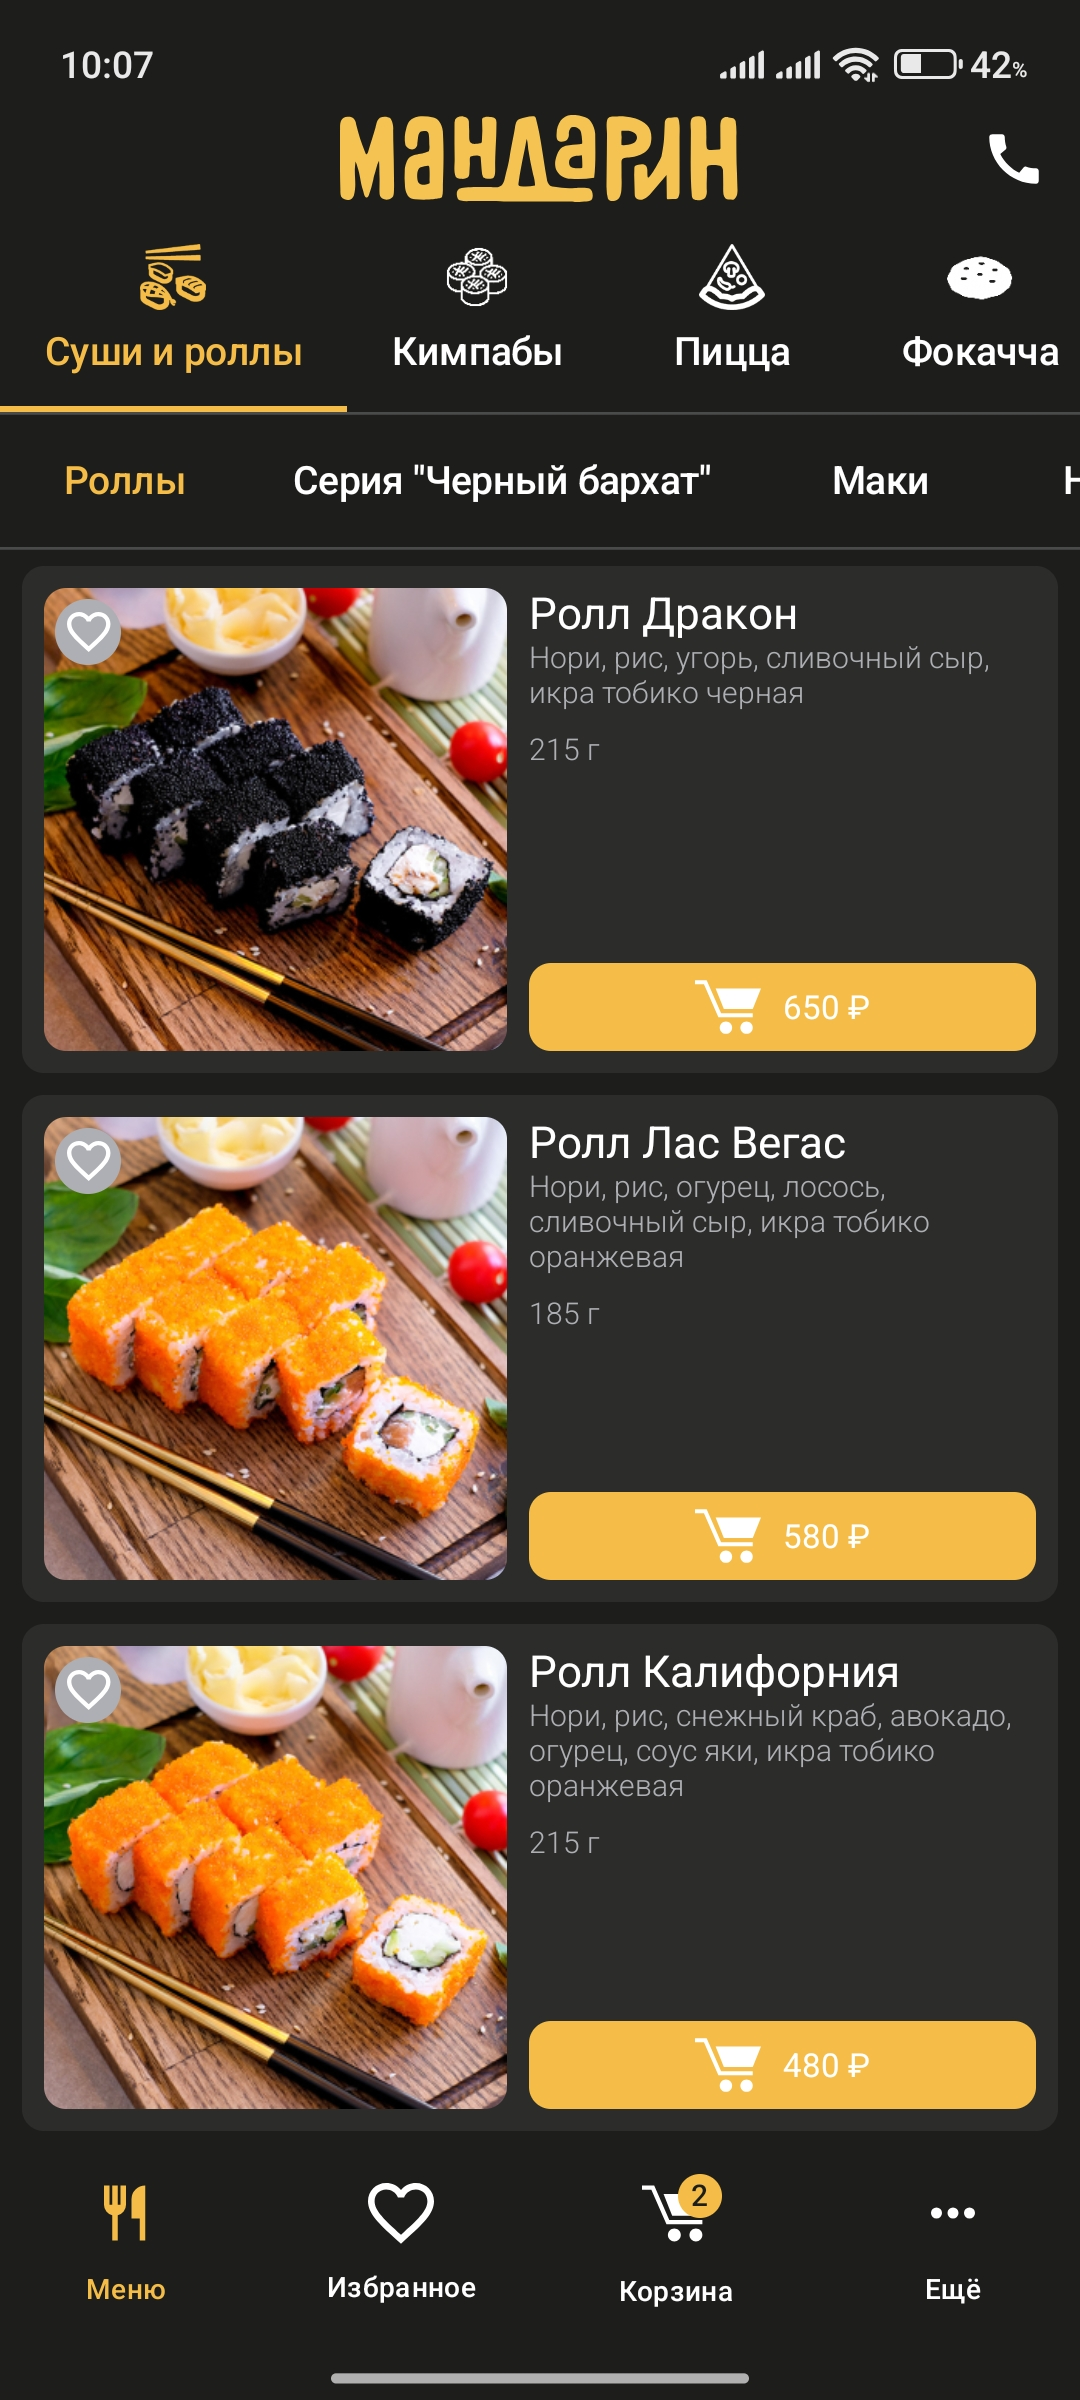
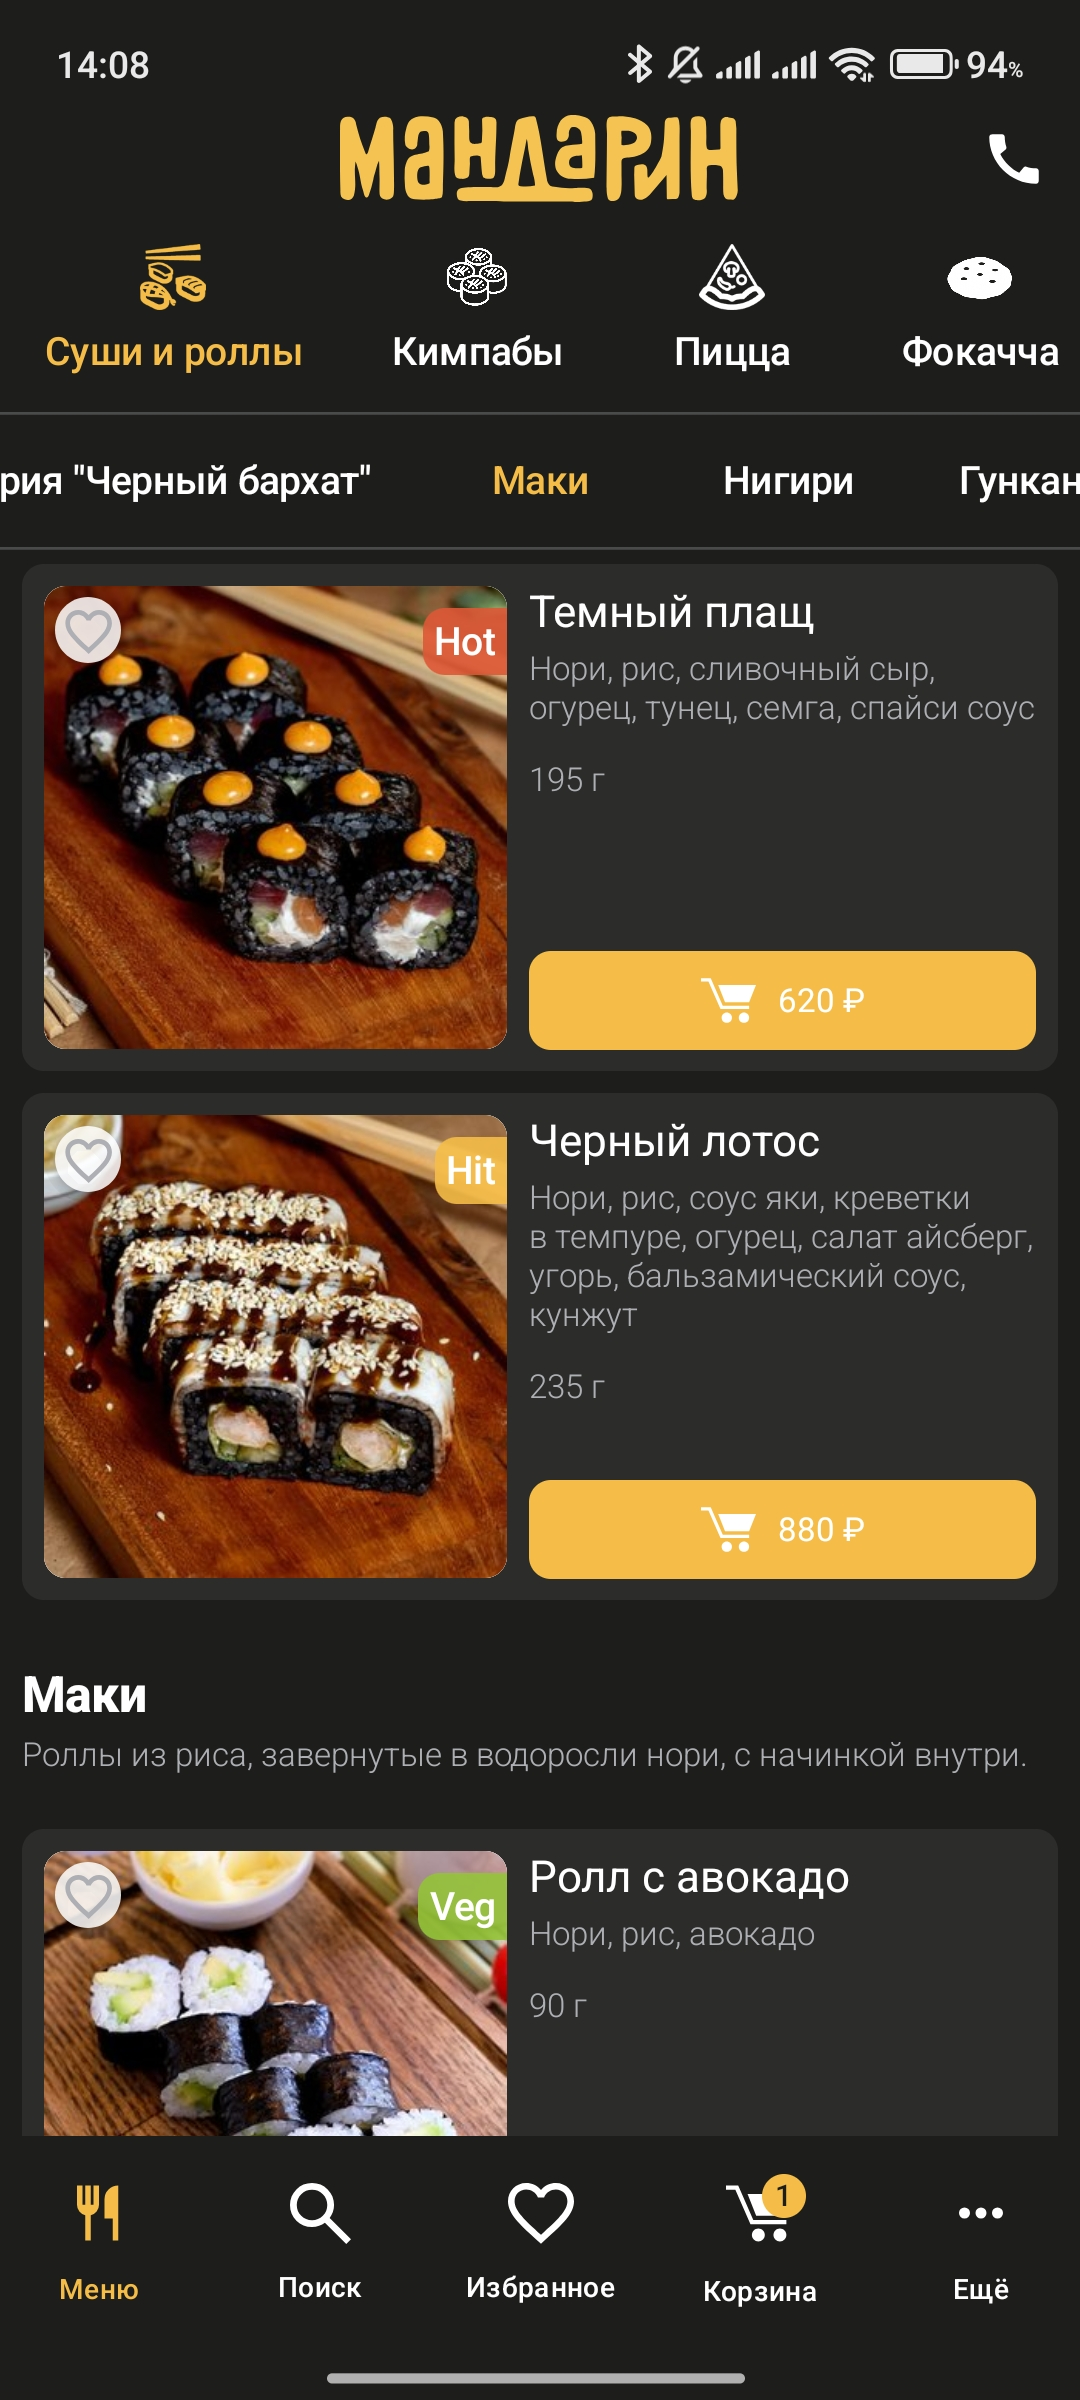
Небольшие косметические правки

diff --git a/composeApp/src/commonMain/kotlin/com/mandarinkafe/mandarin/features/more/presentation/ui/screen/AboutScreen.kt b/composeApp/src/commonMain/kotlin/com/mandarinkafe/mandarin/features/more/presentation/ui/screen/AboutScreen.kt
@@ -127,14 +127,6 @@ fun AboutScreen(
                     color = Colors.LightGrey
                 )
             }
-            state.revision?.let {
-                // Ревизия меню
-                Text(
-                    text = stringResource(MR.strings.menu_revision_text, it),
-                    style = Typography.SmallTextStyle,
-                    color = Colors.LightGrey
-                )
-            }
 
             state.versionName?.let {
                 // Версия приложения

diff --git a/composeApp/src/commonMain/kotlin/com/mandarinkafe/mandarin/features/account/presentation/ui/components/PersonalInfoSection.kt b/composeApp/src/commonMain/kotlin/com/mandarinkafe/mandarin/features/account/presentation/ui/components/PersonalInfoSection.kt
@@ -53,7 +53,7 @@ fun PersonalInfoSection(
 
             MyTextField(
                 value = nameQuery,
-                labelRes = MR.strings.your_name,
+                labelRes = MR.strings.personal_info_name,
                 onValueChange = { onNameEntered(it) },
                 trailingIcon = if (showNameChangeButtons) {
                     {

diff --git a/composeApp/src/commonMain/kotlin/com/mandarinkafe/mandarin/features/menu/domain/api/GetAnnouncementsUseCase.kt b/composeApp/src/commonMain/kotlin/com/mandarinkafe/mandarin/features/menu/domain/api/GetAnnouncementsUseCase.kt
@@ -6,3 +6,4 @@ interface GetAnnouncementsUseCase {
     suspend operator fun invoke(): Resource<List<String>>
 }
 
+

diff --git a/composeApp/src/commonMain/kotlin/com/mandarinkafe/mandarin/features/menu/domain/impl/GetAnnouncementsUseCaseImpl.kt b/composeApp/src/commonMain/kotlin/com/mandarinkafe/mandarin/features/menu/domain/impl/GetAnnouncementsUseCaseImpl.kt
@@ -22,3 +22,4 @@ class GetAnnouncementsUseCaseImpl(private val repository: AnnouncementsRepositor
     }
 }
 
+

diff --git a/composeApp/src/commonMain/kotlin/com/mandarinkafe/mandarin/features/orderinfo/domain/impl/GetOrderStatusFromIikoUseCaseImpl.kt b/composeApp/src/commonMain/kotlin/com/mandarinkafe/mandarin/features/orderinfo/domain/impl/GetOrderStatusFromIikoUseCaseImpl.kt
@@ -14,3 +14,4 @@ class GetOrderStatusFromIikoUseCaseImpl(private val repository: OrderInfoReposit
 
 
 
+

diff --git a/composeApp/src/commonMain/kotlin/com/mandarinkafe/mandarin/features/infrastructure/data/network/dto/paymenttype/PaymentTypeServer.kt b/composeApp/src/commonMain/kotlin/com/mandarinkafe/mandarin/features/infrastructure/data/network/dto/paymenttype/PaymentTypeServer.kt
@@ -17,3 +17,4 @@ fun PaymentTypeServer.toDomain() = PaymentType(
 )
 
 
+

diff --git a/composeApp/src/commonMain/kotlin/com/mandarinkafe/mandarin/features/orderinfo/presentation/ui/components/ChangePaymentMethodConfirmationDialog.kt b/composeApp/src/commonMain/kotlin/com/mandarinkafe/mandarin/features/orderinfo/presentation/ui/components/ChangePaymentMethodConfirmationDialog.kt
@@ -34,3 +34,4 @@ fun ChangePaymentMethodConfirmationDialog(
     )
 }
 
+

diff --git a/composeApp/src/commonMain/kotlin/com/mandarinkafe/mandarin/features/menu/data/dto/AnnouncementDto.kt b/composeApp/src/commonMain/kotlin/com/mandarinkafe/mandarin/features/menu/data/dto/AnnouncementDto.kt
@@ -13,3 +13,4 @@ data class AnnouncementDto(
     val id: Int,
 )
 
+

diff --git a/composeApp/src/commonMain/kotlin/com/mandarinkafe/mandarin/features/orderinfo/domain/api/GetOrderStatusFromIikoUseCase.kt b/composeApp/src/commonMain/kotlin/com/mandarinkafe/mandarin/features/orderinfo/domain/api/GetOrderStatusFromIikoUseCase.kt
@@ -10,3 +10,4 @@ interface GetOrderStatusFromIikoUseCase {
 
 
 
+

diff --git a/composeApp/src/commonMain/kotlin/com/mandarinkafe/mandarin/features/infrastructure/data/network/dto/paymenttype/PaymentTypesServerResponse.kt b/composeApp/src/commonMain/kotlin/com/mandarinkafe/mandarin/features/infrastructure/data/network/dto/paymenttype/PaymentTypesServerResponse.kt
@@ -10,3 +10,4 @@ data class PaymentTypesServerResponse(
 
 
 
+

diff --git a/README.md b/README.md
@@ -28,23 +28,25 @@ Multiplatform
 
 ## Возможности приложения ✨
 
-| Функциональность                              | Статус         |
-|-----------------------------------------------|----------------|
-| Получение актуального меню                    | ✔ Реализовано |
-| Поиск блюда по названию с поддержкой опечаток | ✔ Реализовано |
-| Фильтры по тегам                              | ✔ Реализовано |
-| Кастомизация блюда                            | ✔ Реализовано |
-| Корзина                                       | ✔ Реализовано |
-| Интерактивная карта с зонами доставки         | ✔ Реализовано |
-| Избранные с поддержкой кастомизированных блюд | ✔ Реализовано |
-| Оформление заказа                             | ✔ Реализовано |
-| Отслеживание статуса заказа                   | ✔ Реализовано |
-| История заказов                               | ✔ Реализовано |
-| Сохранение адресов доставки                   | ✔ Реализовано |
-| Форма обратной связи                          | ✔ Реализовано |
-| Авторизация через звонок или sms              | ✔ Реализовано |
-| Личный кабинет                                | ✔ Реализовано |
-| Онлайн-оплата заказа                          | ✔ Реализовано |
+| Функциональность                                | Статус         |
+|-------------------------------------------------|----------------|
+| Получение и обработка актуального меню          | ✔ Реализовано |
+| Синхронизация прокрутки меню и табов категорий  | ✔ Реализовано |
+| Поиск блюда по названию с поддержкой опечаток   | ✔ Реализовано |
+| Фильтры по тегам                                | ✔ Реализовано |
+| Кастомизация блюда                              | ✔ Реализовано |
+| Корзина с умными рекомендациями товаров         | ✔ Реализовано |
+| Интерактивная карта с зонами доставки           | ✔ Реализовано |
+| Избранные с поддержкой кастомизированных блюд   | ✔ Реализовано |
+| Оформление заказа                               | ✔ Реализовано |
+| Отслеживание статуса заказа                     | ✔ Реализовано |
+| История заказов                                 | ✔ Реализовано |
+| Сохранение адресов доставки                     | ✔ Реализовано |
+| Форма обратной связи                            | ✔ Реализовано |
+| Авторизация через звонок или sms                | ✔ Реализовано |
+| Личный кабинет                                  | ✔ Реализовано |
+| Онлайн-оплата заказа                            | ✔ Реализовано |
+| Отмена заказа с автоматическим возвратом оплаты | ✔ Реализовано |
 
 ## Используемые инструменты и технологии 📚
 
@@ -64,9 +66,11 @@ Multiplatform
 
 ## Скриншоты приложения 📱
 
-<img src="https://github.com/mandarin-kafe/Mandarin/blob/dev/screenshots/1_Menu.jpg?raw=true" width="30%" height="30%"> <img src="https://github.com/mandarin-kafe/Mandarin/blob/dev/screenshots/2_Search.jpg?raw=true" width="30%" height="30%"> <img src="https://github.com/mandarin-kafe/Mandarin/blob/dev/screenshots/3_Cart.jpg?raw=true" width="30%" height="30%">
+<img src="https://github.com/mandarin-kafe/Mandarin/blob/dev/screenshots/1_Menu.gif?raw=true" width="30%" height="30%"> <img src="https://github.com/mandarin-kafe/Mandarin/blob/dev/screenshots/2_Search.jpg?raw=true" width="30%" height="30%"> <img src="https://github.com/mandarin-kafe/Mandarin/blob/dev/screenshots/3_Favorites.jpg?raw=true" width="30%" height="30%">
 
-<img src="https://github.com/mandarin-kafe/Mandarin/blob/dev/screenshots/4_Checkout.jpg?raw=true" width="30%" height="30%"> <img src="https://github.com/mandarin-kafe/Mandarin/blob/dev/screenshots/5_favorites.jpg?raw=true" width="30%" height="30%"> <img src="https://github.com/mandarin-kafe/Mandarin/blob/dev/screenshots/6_map.jpg?raw=true" width="30%" height="30%">
+<img src="https://github.com/mandarin-kafe/Mandarin/blob/dev/screenshots/4_Map.gif?raw=true" width="30%" height="30%"> <img src="https://github.com/mandarin-kafe/Mandarin/blob/dev/screenshots/5_Cart.jpg?raw=true" width="30%" height="30%"> <img src="https://github.com/mandarin-kafe/Mandarin/blob/dev/screenshots/6_Checkout.jpg?raw=true" width="30%" height="30%">
+
+<img src="https://github.com/mandarin-kafe/Mandarin/blob/dev/screenshots/7_Contacts.jpg?raw=true" width="30%" height="30%"> <img src="https://github.com/mandarin-kafe/Mandarin/blob/dev/screenshots/8_Account.jpg?raw=true" width="30%" height="30%"> <img src="https://github.com/mandarin-kafe/Mandarin/blob/dev/screenshots/9_MealDetails.jpg?raw=true" width="30%" height="30%">
 
 ## Общие требования 🗒
 
